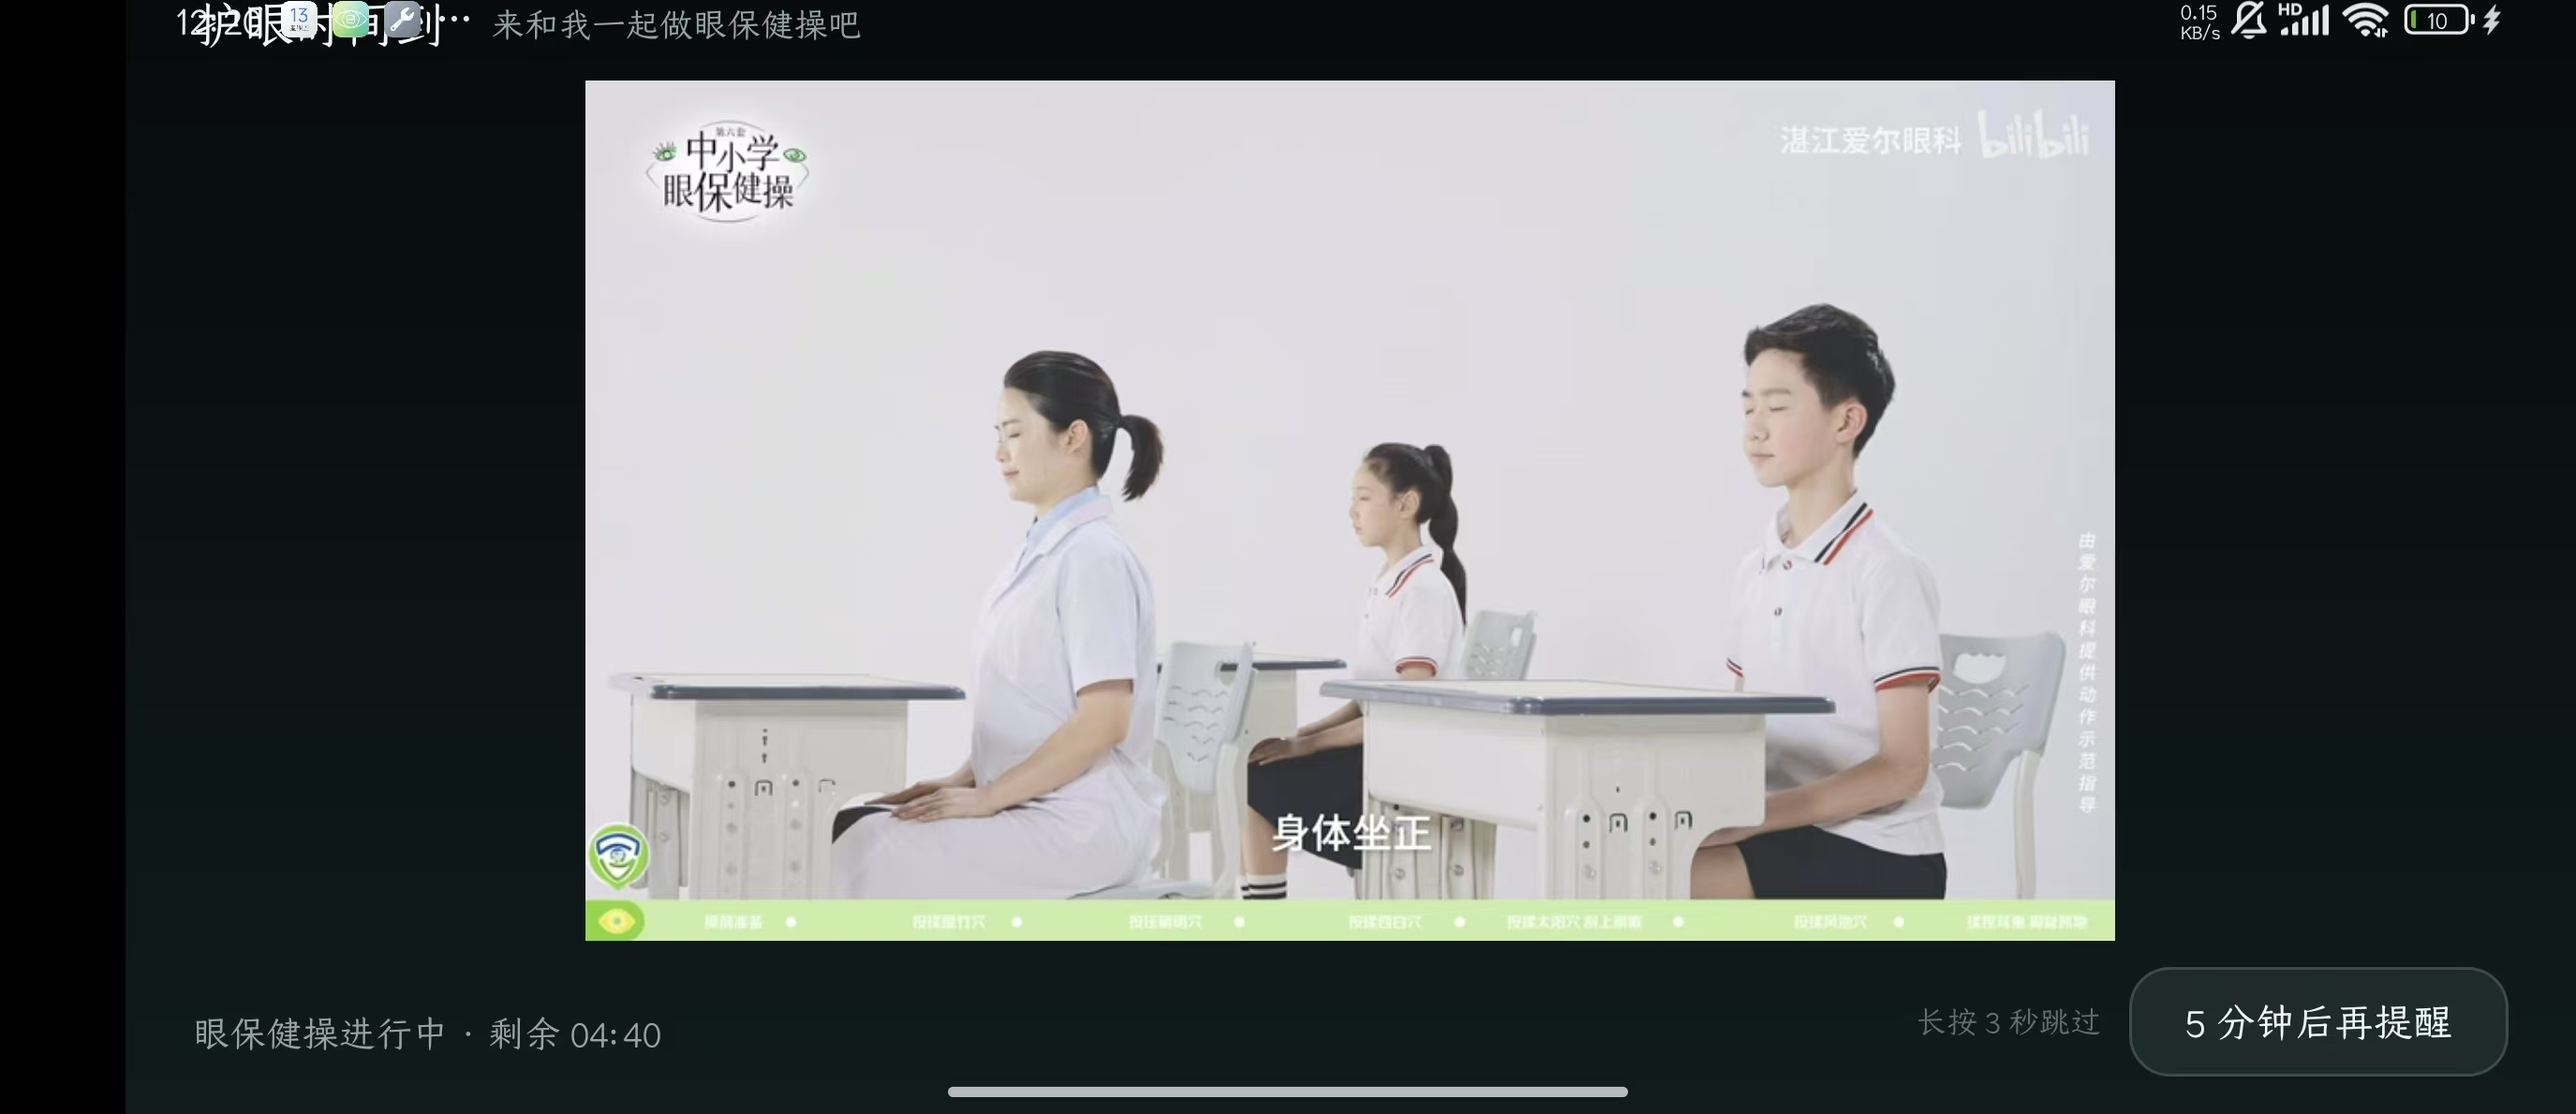
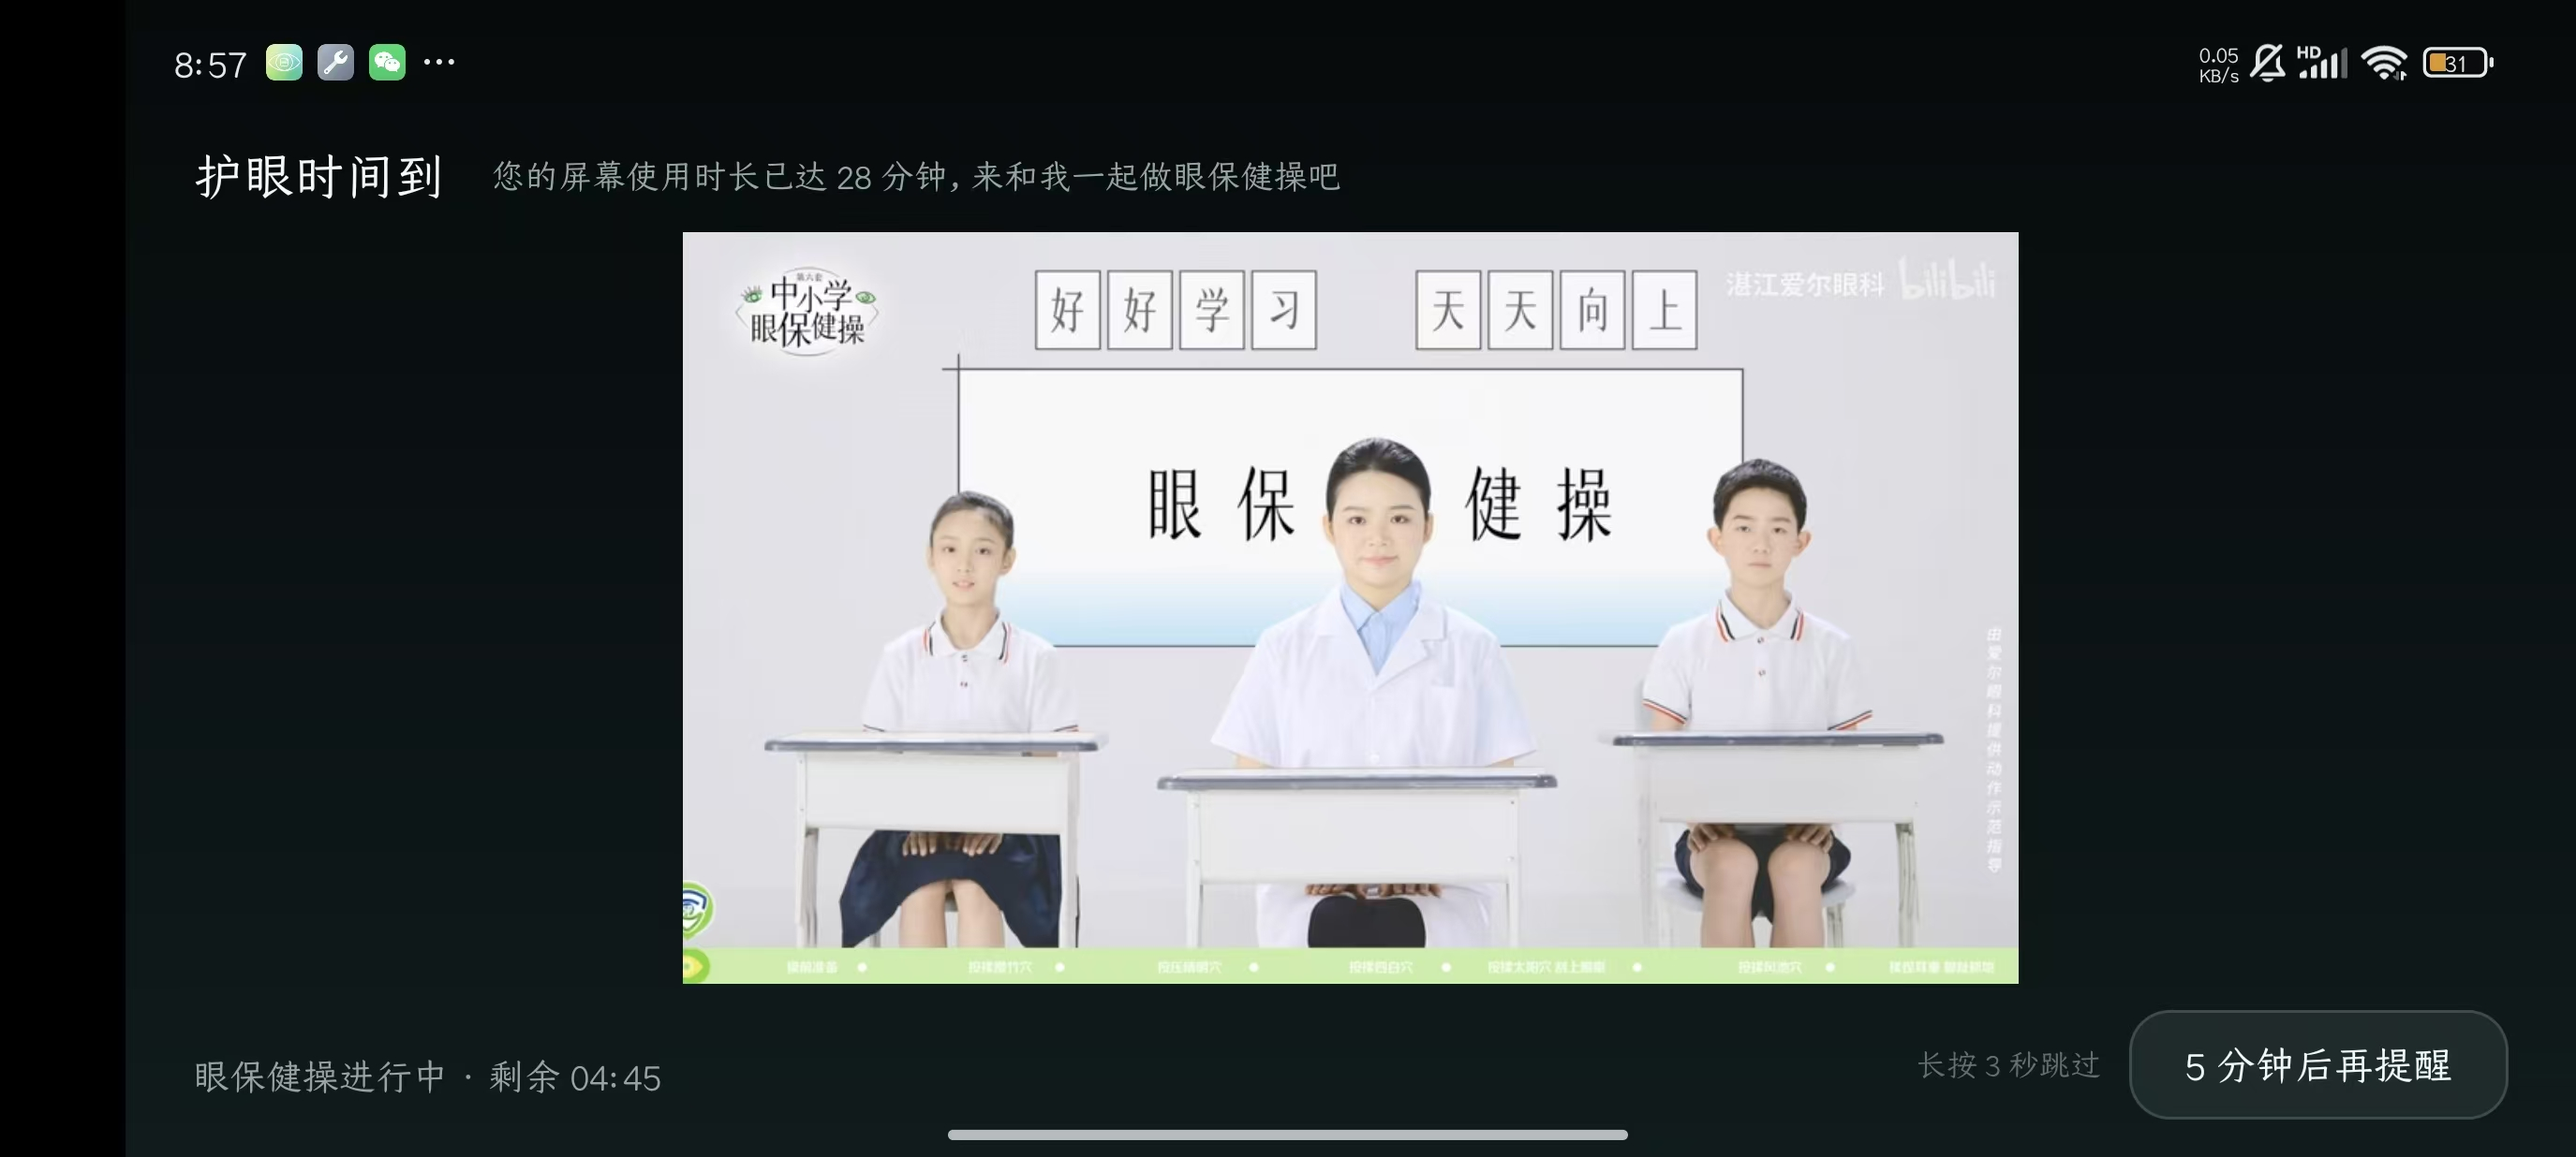
fix(android): 悬浮窗提醒让出状态栏高度，修复横屏标题被系统栏遮挡

diff --git a/android/app/src/main/java/com/tenderxiamu/eyecaretv/ReminderView.kt b/android/app/src/main/java/com/tenderxiamu/eyecaretv/ReminderView.kt
@@ -33,6 +33,8 @@ data class ReminderSpec(
 class ReminderView(
     context: Context,
     private val spec: ReminderSpec,
+    /** 悬浮窗会绘制到状态栏下方，需要自行让出状态栏高度。 */
+    private val respectSystemBars: Boolean = false,
 ) : FrameLayout(context) {
 
     var onFinished: ((watchedMs: Long) -> Unit)? = null
@@ -129,7 +131,8 @@ class ReminderView(
         val content = LinearLayout(context).apply {
             orientation = LinearLayout.VERTICAL
             gravity = Gravity.CENTER_HORIZONTAL
-            setPadding(dp(28), dp(44), dp(28), dp(32))
+            val top = if (respectSystemBars) maxOf(dp(44), systemBarTop() + dp(14)) else dp(44)
+            setPadding(dp(28), top, dp(28), dp(32))
         }
         addView(content, LayoutParams(LayoutParams.MATCH_PARENT, LayoutParams.MATCH_PARENT))
 
@@ -175,7 +178,8 @@ class ReminderView(
     private fun buildLandscape() {
         val content = LinearLayout(context).apply {
             orientation = LinearLayout.VERTICAL
-            setPadding(dp(24), dp(12), dp(24), dp(12))
+            val top = if (respectSystemBars) maxOf(dp(12), systemBarTop() + dp(6)) else dp(12)
+            setPadding(dp(24), top, dp(24), dp(12))
         }
         addView(content, LayoutParams(LayoutParams.MATCH_PARENT, LayoutParams.MATCH_PARENT))
 
@@ -436,6 +440,12 @@ class ReminderView(
 
     private fun dp(value: Int): Int =
         (value * resources.displayMetrics.density).toInt()
+
+    /** 系统状态栏高度，取不到时按 24dp 兜底。 */
+    private fun systemBarTop(): Int {
+        val id = resources.getIdentifier("status_bar_height", "dimen", "android")
+        return if (id > 0) resources.getDimensionPixelSize(id) else dp(24)
+    }
 
     /** 提醒期间吞掉返回键，避免随手退出；音量键等仍然可用。 */
     override fun dispatchKeyEvent(event: KeyEvent): Boolean {

diff --git a/android/app/src/main/java/com/tenderxiamu/eyecaretv/EyeCareService.kt b/android/app/src/main/java/com/tenderxiamu/eyecaretv/EyeCareService.kt
@@ -180,7 +180,7 @@ class EyeCareService : Service() {
             showFallbackNotification(spec)
             return
         }
-        val view = ReminderView(this, spec).apply {
+        val view = ReminderView(this, spec, respectSystemBars = true).apply {
             onFinished = { watchedMs -> finishReminder(watchedMs) }
             onSnooze = { snoozeReminder() }
         }
